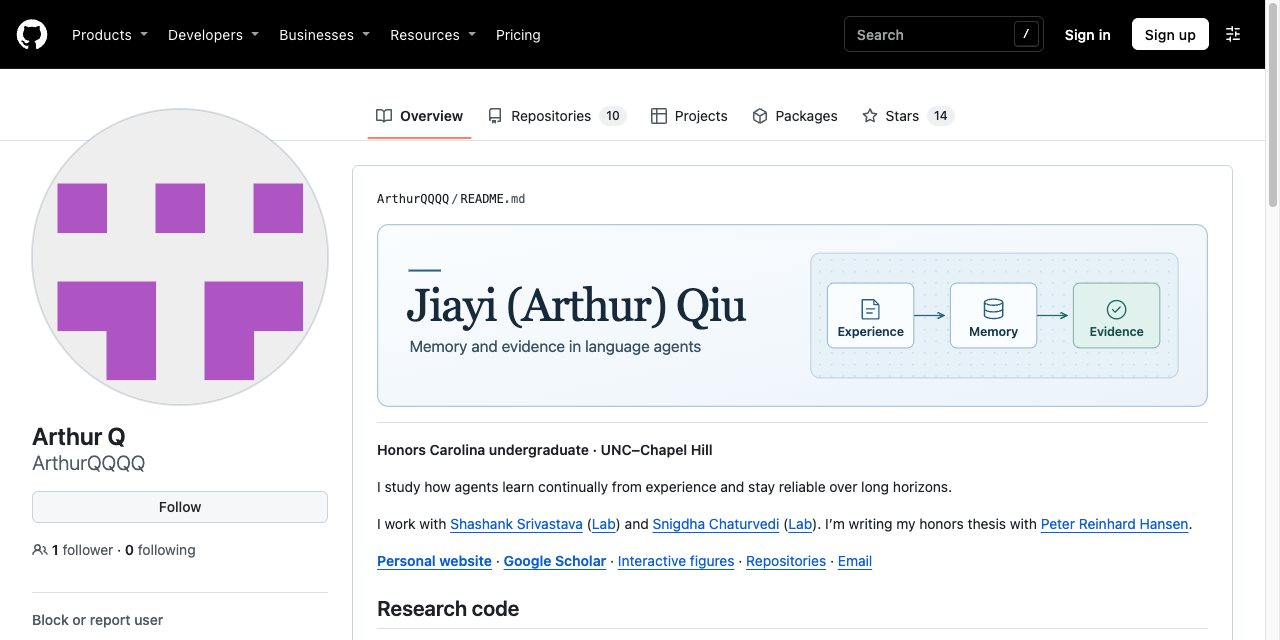
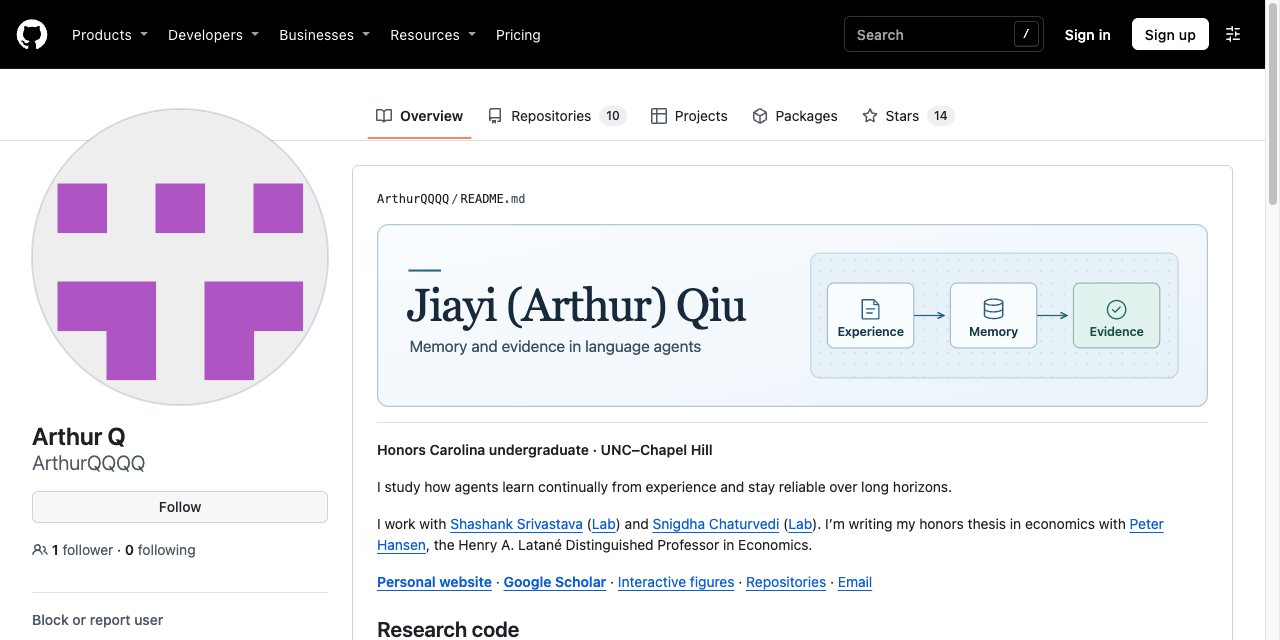
Clarify economics honors thesis and adviser title

Changed region(s): [[0.2812, 0.8438, 0.6875, 1.0], [0.7812, 0.8125, 0.9375, 0.8438]]

diff --git a/index.html b/index.html
@@ -30,7 +30,7 @@
         <p class="affiliation"><img class="unc-mark" src="unc-interlocking-nc.png" alt="" width="29" height="23"> <span>Honors Carolina undergraduate at UNC–Chapel Hill</span></p>
         <p class="research-thesis">I study how agents learn continually from experience and stay reliable over long horizons.</p>
         <p class="hero-background">I study computer science and economics, with a minor in mathematics.</p>
-        <p class="hero-background">I work with <a href="https://www.ssriva.com/">Shashank Srivastava</a> (<a href="https://l3.cs.unc.edu/" aria-label="Learning from Language Lab (L³)">Lab</a>) and <a href="https://cs.unc.edu/person/snigdha-chaturvedi/">Snigdha Chaturvedi</a> (<a href="https://nlp.cs.unc.edu/#lab-Chaturvedi-Lab" aria-label="Chaturvedi Lab">Lab</a>). I’m writing my honors thesis with <a href="https://econ.unc.edu/people/hansen-peter/">Peter Reinhard Hansen</a>.</p>
+        <p class="hero-background">I work with <a href="https://www.ssriva.com/">Shashank Srivastava</a> (<a href="https://l3.cs.unc.edu/" aria-label="Learning from Language Lab (L³)">Lab</a>) and <a href="https://cs.unc.edu/person/snigdha-chaturvedi/">Snigdha Chaturvedi</a> (<a href="https://nlp.cs.unc.edu/#lab-Chaturvedi-Lab" aria-label="Chaturvedi Lab">Lab</a>). I’m writing my honors thesis in economics with <a href="https://econ.unc.edu/people/hansen-peter/">Peter Hansen</a>, the Henry A. Latané Distinguished Professor in Economics.</p>
         <nav class="social-links" aria-label="Contact">
           <a href="mailto:arthurq@ad.unc.edu">Email</a>
         </nav>
@@ -49,7 +49,7 @@
             <span class="profile-action" id="open-github-profile">View GitHub</span>
           </header>
           <div class="profile-preview">
-            <img src="github-page-preview.jpg?v=faculty-and-lab-links" width="1280" height="640" decoding="async"
+            <img src="github-page-preview.jpg?v=economics-honors-thesis" width="1280" height="640" decoding="async"
               alt="Public GitHub profile with the avatar, repository navigation, and research README">
           </div>
         </a>
@@ -240,7 +240,7 @@
       </div>
     </header>
     <div class="preview-dialog-media" role="region" aria-label="Page screenshot" tabindex="-1">
-      <img id="preview-image" src="github-page-preview.jpg?v=faculty-and-lab-links" width="1280" height="640" alt="" loading="lazy">
+      <img id="preview-image" src="github-page-preview.jpg?v=economics-honors-thesis" width="1280" height="640" alt="" loading="lazy">
     </div>
   </dialog>
 
